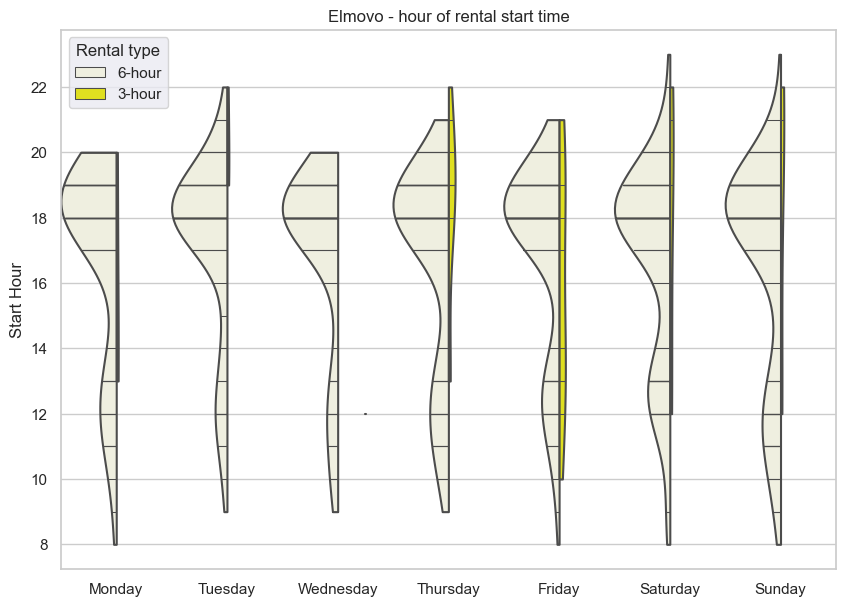
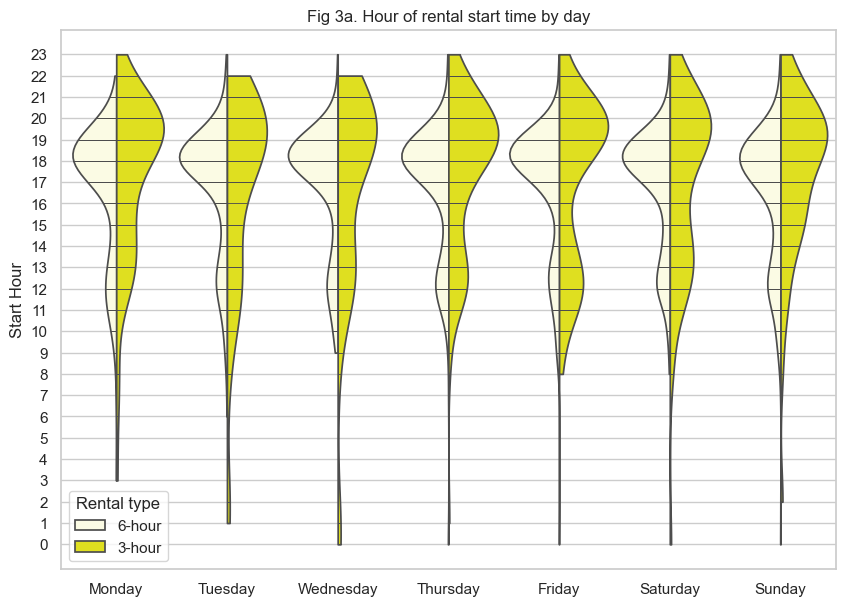
Image update

diff --git a/content/posts/Elmovo_explanation.md b/content/posts/Elmovo_explanation.md
@@ -42,10 +42,10 @@ A note on the number of outliers. There are a large number at the shorter time-s
 
 Looking at a violin plot of all rentals by start time, the evening peak is very pronounced, as is the preference for 6-hour rentals. The peak for 3-hour rentals is later than for 6-hour rentals, which suggests the 3-hour sessions were being used to keep working later in the evening after a 6-hour rental, which reinforces that riders would like to rent for longer work shifts than the batteries allow. What is clear is that the mopeds are underutilised outside mealtimes. The plan had been to increase utilisation rates by renting to non-food couriers during the working day when rental rates were lower, however the onset of the pandemic stopped progress at an early stage.
 
-![targets](/img/el_fig3a_.png)
+![targets](/img/el_fig3a.png)
 
 The hard cut-off of the plots of some days at the end of the evening are cause by the start time data being saved by hour only and not minutes. Therefore on quieter days like Monday and Wednesday there are no rentals past 9pm and all rentals during the previous hour are given a start time of 8pm exactly.
 
 The pattern of rental start times has to be looked at in combination with the average daily numbers of rentals at each hour which shows just how popular the early evening 6-hour rentals are and the differential in demand overall between the two durations.
 
-![targets](/img/el_fig3b_.png)
+![targets](/img/el_fig3b.png)
